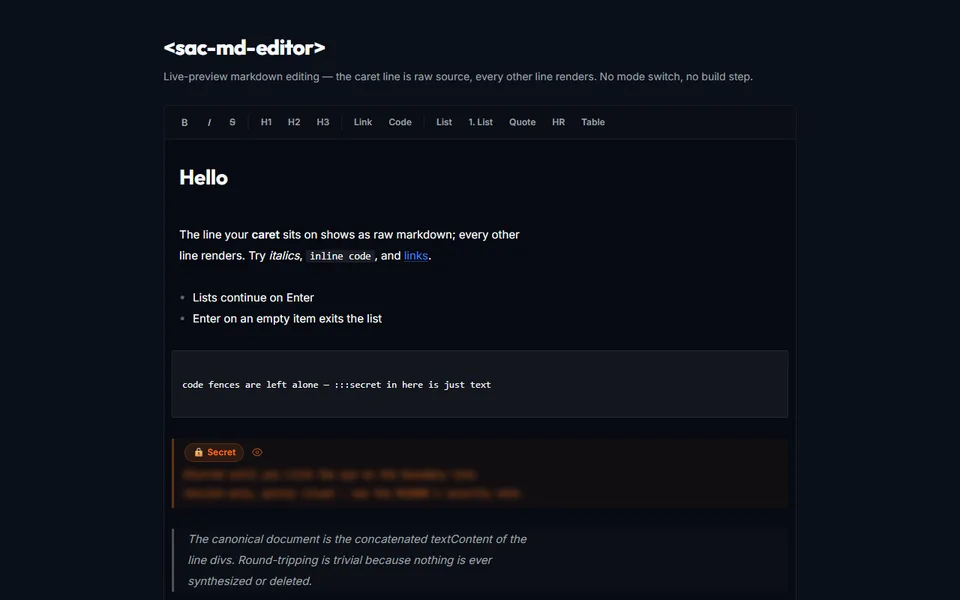
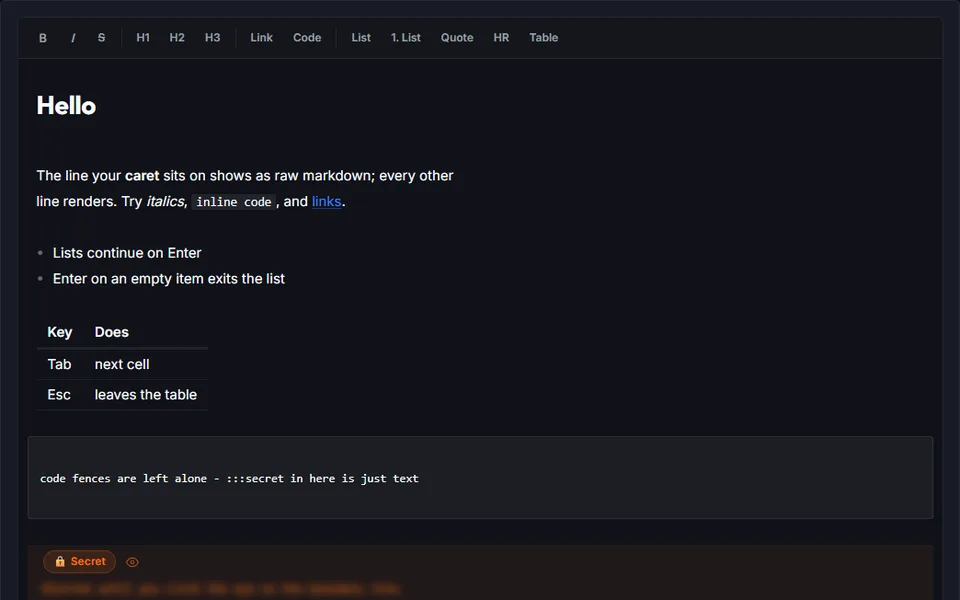
Add-ons: sac-md-editor's API page is live
The card links to sacrvm.github.io/sac-md-editor/, notes appkit 2.24.0 and shows the editor without the retired edge stripe.

diff --git a/styleguide/app.js b/styleguide/app.js
@@ -5442,7 +5442,7 @@ sac.icons.get("note");  sac.icons.has("x");  sac.icons.names();`)}
           kit: "2.24.0", page: "https://sacrvm.github.io/sac-data-grid/", repo: "https://github.com/SACRVM/sac-data-grid" },
         { id: "sac-md-editor", kind: "Component", name: "&lt;sac-md-editor&gt;",
           text: "Live-preview markdown editing: the caret line is raw source, every other line renders. Toolbar, list continuation, custom block types.",
-          kit: "2.12.0", page: null, repo: "https://github.com/SACRVM/sac-md-editor" },
+          kit: "2.24.0", page: "https://sacrvm.github.io/sac-md-editor/", repo: "https://github.com/SACRVM/sac-md-editor" },
         { id: "sacrvm-newskit", kind: "Sister kit", name: "SACRVM NEWSKIT",
           text: "The editorial kit: appkit's look specialised for long-form, source-backed articles — the reading layer, article primitives and sources and provenance as first-class citizens.",
           kit: "2.15.0", page: "https://sacrvm.github.io/sacrvm-newskit/", repo: "https://github.com/SACRVM/sacrvm-newskit" },
